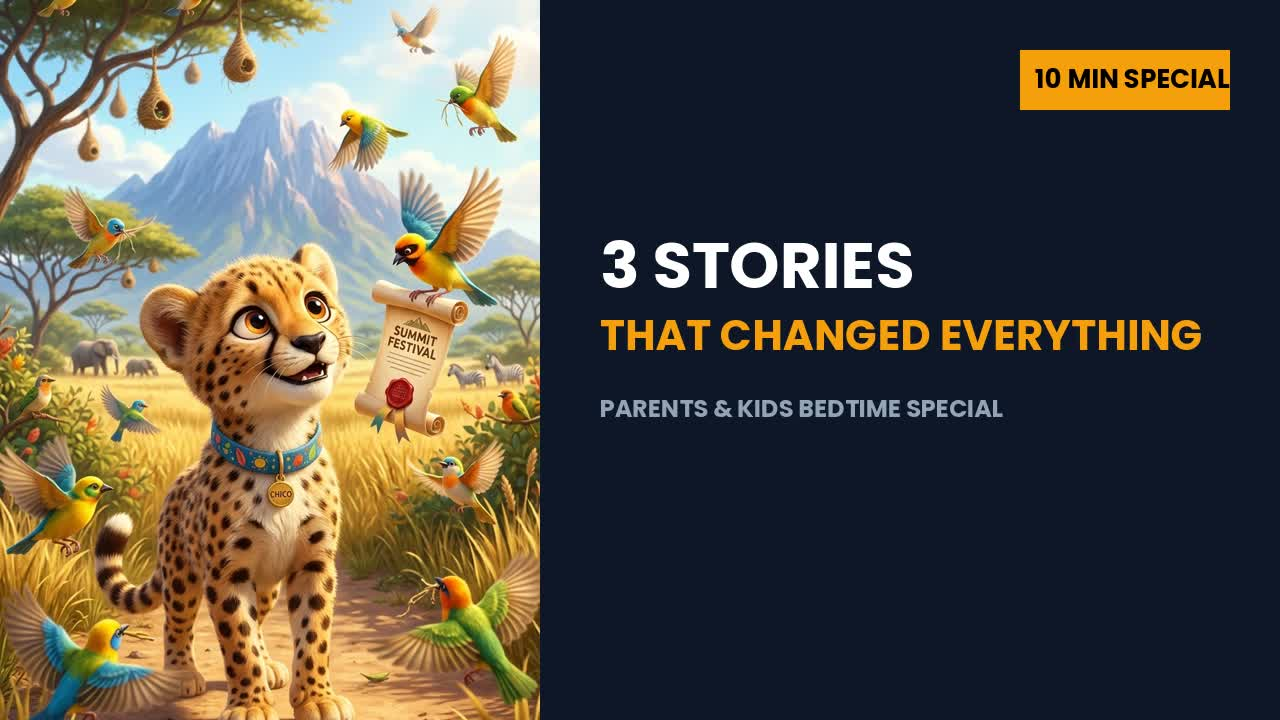
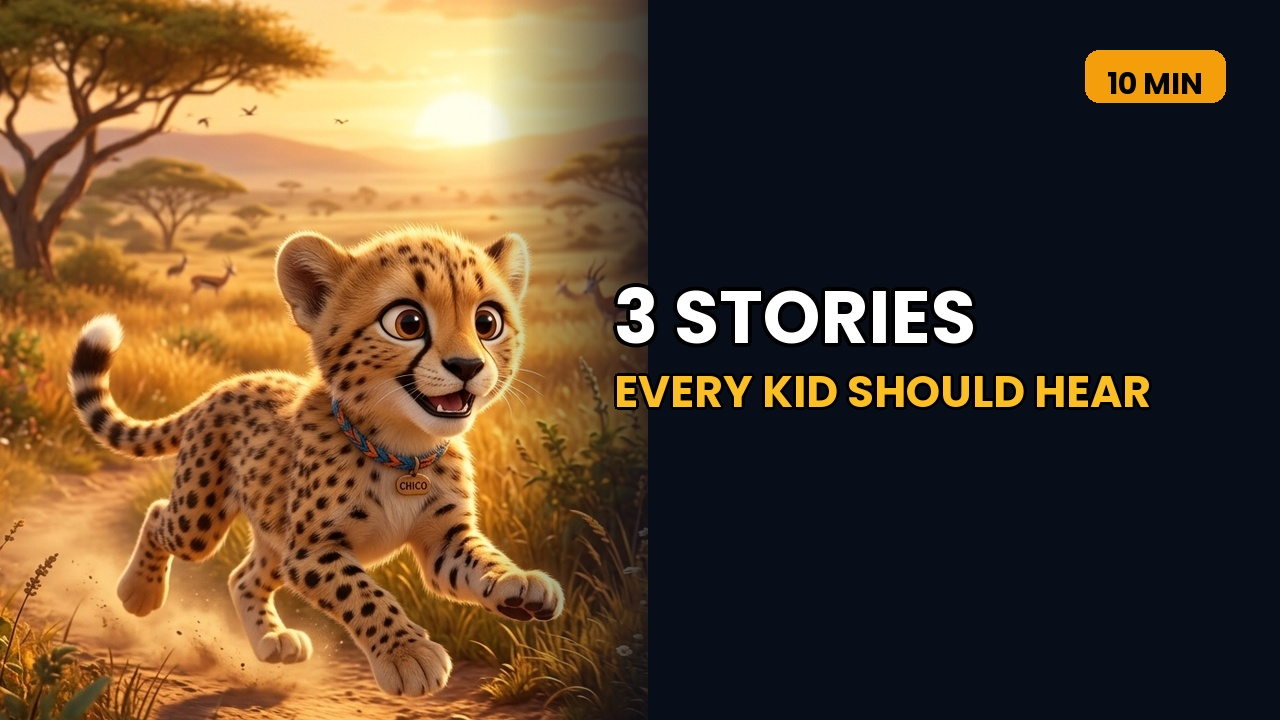
feat(MindNestTales): refine 16:9 master thumbnail with high-contrast 10 MIN badge, zero clutter, and emotional headline

diff --git a/channels/MindNestTales/generate_thumbnail.py b/channels/MindNestTales/generate_thumbnail.py
@@ -1,0 +1,146 @@
+"""
+MindNest Tales High-CTR 16:9 Thumbnail Generator:
+- Creates professional, high-CTR YouTube landscape thumbnails (1280x720).
+- Applies the Rule of Thirds, split-second facial expression recognition,
+  feathered gradient transitions, and zero background clutter.
+- Features high-contrast '10 MIN' badge and clear, emotional headlines.
+"""
+
+import os
+import sys
+from PIL import Image, ImageDraw, ImageFont, ImageFilter
+
+if hasattr(sys.stdout, "reconfigure"):
+    sys.stdout.reconfigure(encoding="utf-8")
+if hasattr(sys.stderr, "reconfigure"):
+    sys.stderr.reconfigure(encoding="utf-8")
+
+script_dir = os.path.dirname(os.path.abspath(__file__))
+if script_dir not in sys.path:
+    sys.path.insert(0, script_dir)
+
+def resolve_font():
+    """Finds best bold font for thumbnail typography."""
+    local_font = os.path.join(script_dir, "fonts", "Poppins-Bold.ttf")
+    if os.path.exists(local_font):
+        return local_font
+    is_win = sys.platform.startswith("win")
+    if is_win:
+        win_fonts = os.environ.get("WINDIR", "C:\\Windows") + "\\Fonts\\"
+        for f in ["segoeuib.ttf", "arialbd.ttf", "calibrib.ttf"]:
+            full = os.path.join(win_fonts, f)
+            if os.path.exists(full):
+                return full
+    return None
+
+def generate_10min_master_thumbnail(
+    hero_img_path,
+    output_path,
+    badge_text="10 MIN",
+    headline_l1="3 STORIES",
+    headline_l2="EVERY KID SHOULD HEAR"
+):
+    """
+    Renders the 16:9 Master Landscape Thumbnail:
+    - Left ~52%: Hero character with huge sparkling eyes and warm gold rim light.
+    - Soft feathered transition across the center to eliminate harsh split lines.
+    - Right ~48%: Deep navy background (#080d1a) for maximum text contrast.
+    - Top Right: High-visibility rounded pill badge (#f59e0b) with bold black text.
+    - Center Right: Crisp two-line headline with drop shadow for mobile clarity.
+    """
+    os.makedirs(os.path.dirname(output_path), exist_ok=True)
+    W, H = 1280, 720
+
+    # 1. Base Canvas in Deep Midnight Navy
+    canvas = Image.new("RGB", (W, H), (8, 13, 26))
+
+    # 2. Crop & Position Hero Character (Enlarge face to dominate left half)
+    if os.path.exists(hero_img_path):
+        src_img = Image.open(hero_img_path).convert("RGB")
+        sw, sh = src_img.size
+
+        # Zoom into face / upper body: eliminate feet / excess dirt / top sky
+        crop_box = (int(sw * 0.04), int(sh * 0.18), int(sw * 0.96), int(sh * 0.75))
+        cropped = src_img.crop(crop_box)
+
+        # Scale to full canvas height H
+        target_h = H
+        target_w = int(cropped.width * (target_h / cropped.height))
+        hero_resized = cropped.resize((target_w, target_h), Image.Resampling.LANCZOS)
+
+        canvas.paste(hero_resized, (0, 0))
+
+    # 3. Smooth Feathered Gradient Overlay (Soft transition between character & text)
+    grad = Image.new("RGBA", (W, H), (0, 0, 0, 0))
+    gdraw = ImageDraw.Draw(grad)
+    grad_start = int(W * 0.38)
+    grad_end = int(W * 0.54)
+
+    for x in range(grad_start, W):
+        if x < grad_end:
+            alpha = int(255 * ((x - grad_start) / (grad_end - grad_start)))
+        else:
+            alpha = 255
+        gdraw.line([(x, 0), (x, H)], fill=(8, 13, 26, alpha))
+
+    canvas = Image.alpha_composite(canvas.convert("RGBA"), grad).convert("RGB")
+    draw = ImageDraw.Draw(canvas)
+
+    # 4. Typography Setup
+    font_file = resolve_font()
+    if font_file:
+        try:
+            font_badge = ImageFont.truetype(font_file, 30)
+            font_h1 = ImageFont.truetype(font_file, 74)
+            font_h2 = ImageFont.truetype(font_file, 44)
+        except Exception:
+            font_badge = font_h1 = font_h2 = ImageFont.load_default()
+    else:
+        font_badge = font_h1 = font_h2 = ImageFont.load_default()
+
+    # 5. Top-Right "10 MIN" Badge (High-Contrast Amber-Gold Pill)
+    badge_w = 140
+    badge_h = 52
+    badge_x = W - badge_w - 55
+    badge_y = 50
+
+    draw.rounded_rectangle(
+        [badge_x, badge_y, badge_x + badge_w, badge_y + badge_h],
+        radius=14,
+        fill=(245, 158, 11)
+    )
+
+    bbox_b = font_badge.getbbox(badge_text)
+    bw = bbox_b[2] - bbox_b[0]
+    bh = bbox_b[3] - bbox_b[1]
+    draw.text(
+        (badge_x + (badge_w - bw) / 2, badge_y + (badge_h - bh) / 2 - 3),
+        badge_text,
+        fill=(0, 0, 0),
+        font=font_badge
+    )
+
+    # 6. Main Headline (High-Contrast White & Warm Gold)
+    text_x = int(W * 0.48)
+    text_y1 = 265
+    text_y2 = 360
+
+    # Line 1: "3 STORIES" (Bold White with heavy black outline/shadow)
+    for dx, dy in [(-3, -3), (3, -3), (-3, 3), (3, 3), (0, 4), (0, -4), (4, 0), (-4, 0)]:
+        draw.text((text_x + dx, text_y1 + dy), headline_l1, fill=(0, 0, 0), font=font_h1)
+    draw.text((text_x, text_y1), headline_l1, fill=(255, 255, 255), font=font_h1)
+
+    # Line 2: "EVERY KID SHOULD HEAR" (Warm Gold #FBBF24 with shadow)
+    for dx, dy in [(-2, -2), (2, -2), (-2, 2), (2, 2), (0, 3), (0, -3), (3, 0), (-3, 0)]:
+        draw.text((text_x + dx, text_y2 + dy), headline_l2, fill=(0, 0, 0), font=font_h2)
+    draw.text((text_x, text_y2), headline_l2, fill=(251, 191, 36), font=font_h2)
+
+    # Save Thumbnail
+    canvas.save(output_path, "JPEG", quality=95)
+    print(f"✅ Generated High-CTR 16:9 Thumbnail: {output_path} ({os.path.getsize(output_path)} bytes)")
+    return output_path
+
+if __name__ == "__main__":
+    hero_img = os.path.join(script_dir, "stories", "assets", "story_01", "scene_03_pride.jpg")
+    out_img = os.path.join(script_dir, "stories", "thumbnails", "compilation_01_thumbnail.jpg")
+    generate_10min_master_thumbnail(hero_img, out_img)

diff --git a/channels/MindNestTales/compilation_producer.py b/channels/MindNestTales/compilation_producer.py
@@ -37,6 +37,10 @@ from video_producer import (
     sanitize_ffmpeg_text
 )
 from image_generator import build_narrative_shots, ensure_story_assets
+try:
+    from generate_thumbnail import generate_10min_master_thumbnail
+except ImportError:
+    generate_10min_master_thumbnail = None
 
 CHAPTER_LABELS = {
     "en": "CHAPTER",
@@ -138,6 +142,16 @@ def produce_10min_compilation(story_ids, lang_code, output_video_path, quality="
         w, h = 1920, 1080
 
     meta = build_compilation_metadata(story_ids, lang_code)
+
+    # Auto-ensure 16:9 Master Landscape Thumbnail
+    thumb_path = os.path.join(script_dir, "stories", "thumbnails", f"compilation_{story_ids[0]:02d}_thumbnail.jpg")
+    if not os.path.exists(thumb_path) and generate_10min_master_thumbnail:
+        hero_img = os.path.join(script_dir, "stories", "assets", f"story_{story_ids[0]:02d}", "scene_03_pride.jpg")
+        if not os.path.exists(hero_img):
+            hero_img = os.path.join(script_dir, "stories", "assets", f"story_{story_ids[0]:02d}", "scene_01_intro.jpg")
+        if os.path.exists(hero_img):
+            generate_10min_master_thumbnail(hero_img, thumb_path)
+
     print(f"\n=======================================================")
     print(f"🎬 PRODUCING 10-MINUTE MASTER COMPILATION [{lang_code.upper()}]")
     print(f"Stories: {story_ids}")
